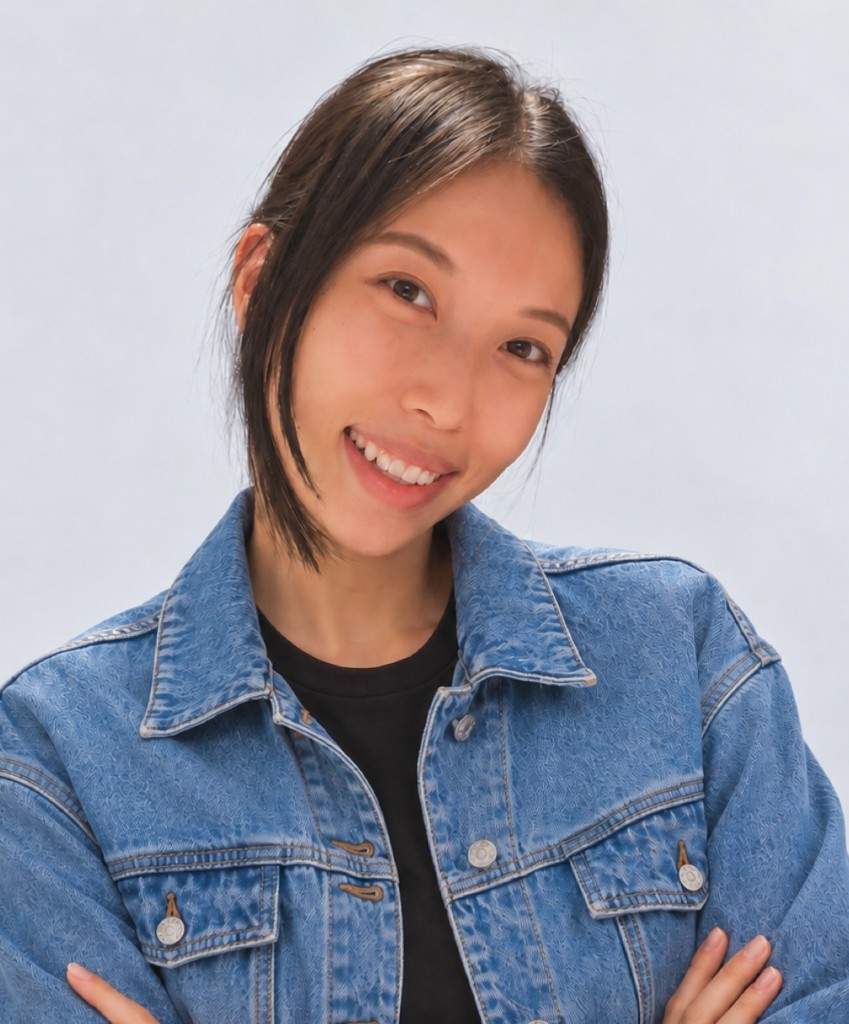
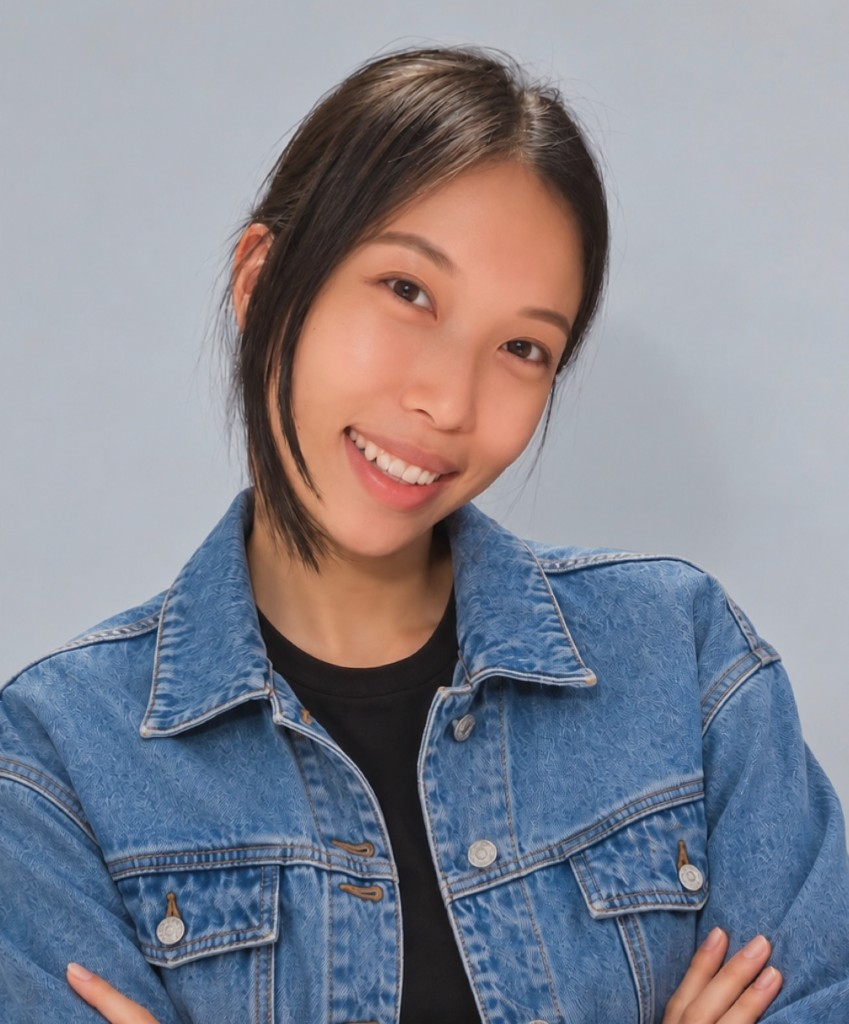
feat: replace Sono Kim director portrait

diff --git a/components/sections/teacher-section.tsx b/components/sections/teacher-section.tsx
@@ -28,11 +28,11 @@ export function TeacherSection() {
                 <div className="w-36 h-36 rounded-full bg-white p-2 shadow-lg flex-shrink-0">
                   <div className="w-full h-full rounded-full overflow-hidden">
                     <Image
-                      src="/sono.JPG"
+                      src="/sono.JPG?v=4"
                       alt="Sono Kim - Director"
                       width={144}
                       height={144}
-                      className="h-full w-full scale-[1.05] object-cover object-[center_15%] rounded-full"
+                      className="h-full w-full object-cover object-[center_12%] rounded-full"
                     />
                   </div>
                 </div>
